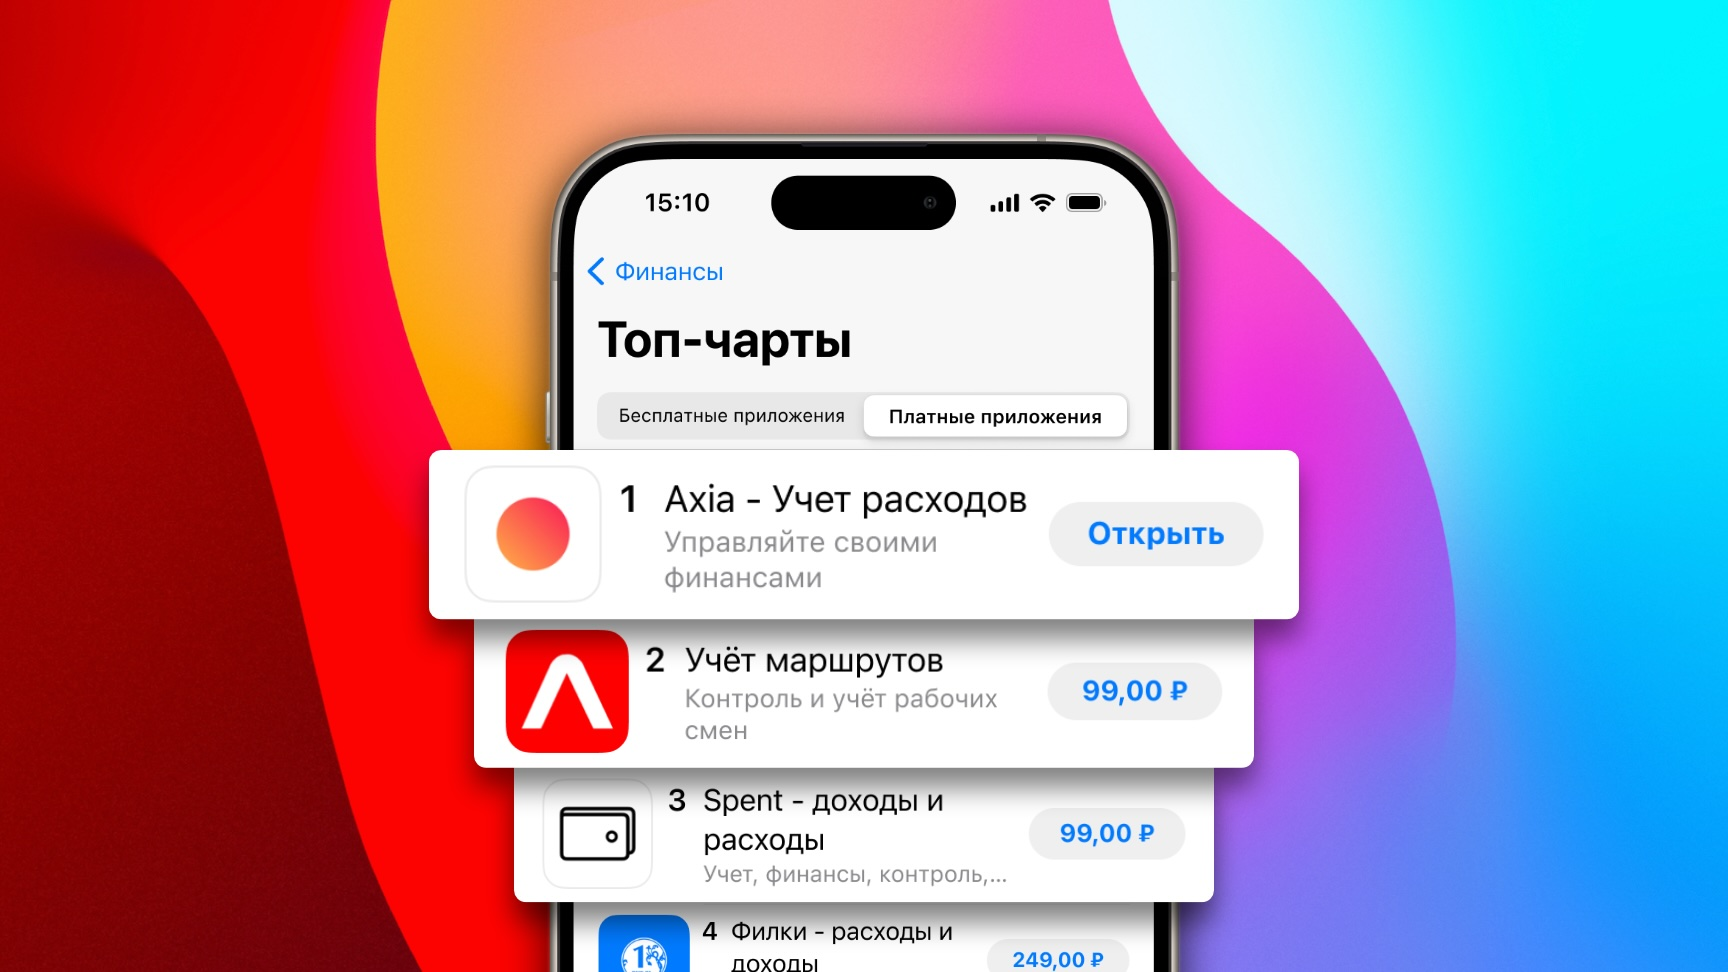
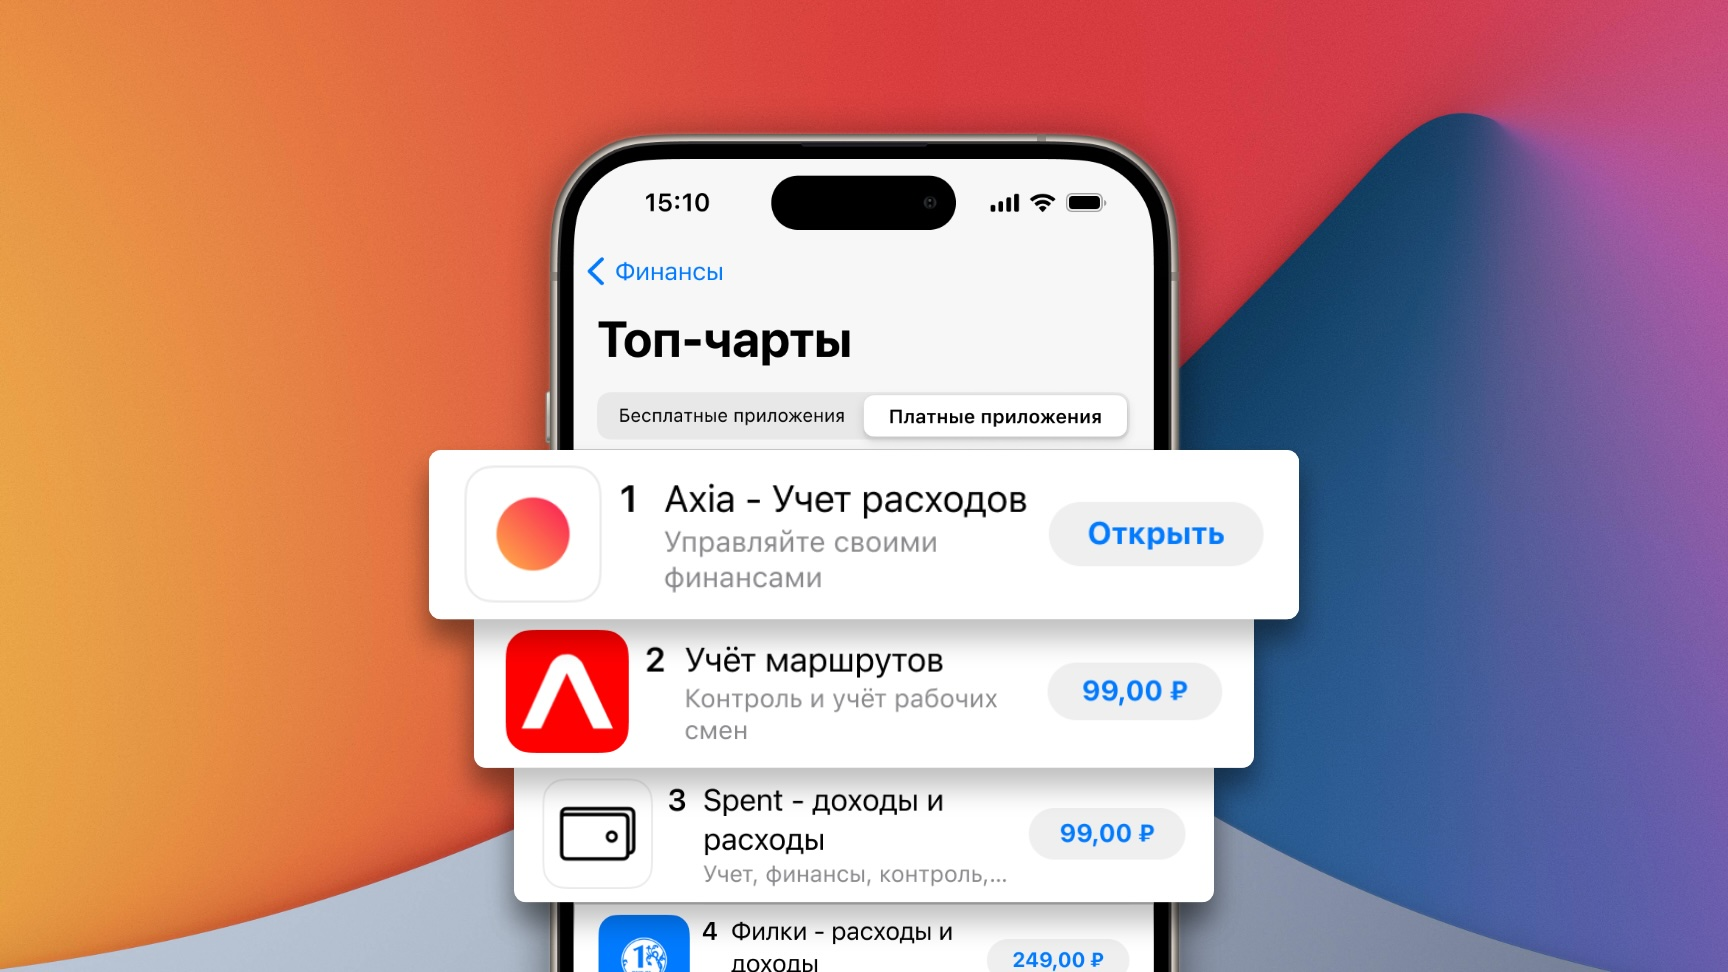
Update cover and remove unused image

diff --git a/2024-04-18/axia-became-number-1-in-the-russian-app-store/article.md b/2024-04-18/axia-became-number-1-in-the-russian-app-store/article.md
@@ -8,7 +8,7 @@ modified_at: 2024-05-05 22:27:00
 
 Today I'm happy to share with you some incredible news: my budgeting app Axia has topped the charts in the Russian App Store! I am proud of this achievement and want to thank all the users who made it possible.
 
-![Axia #1 in the Russian App Store](./media/Axia-number-1-in-the-Russian-App-Store.jpg?202405052227)
+![Axia #1 in the Russian App Store](./media/Axia-number-1-in-the-Russian-App-Store.jpg)
 
 ## What's next?
 
